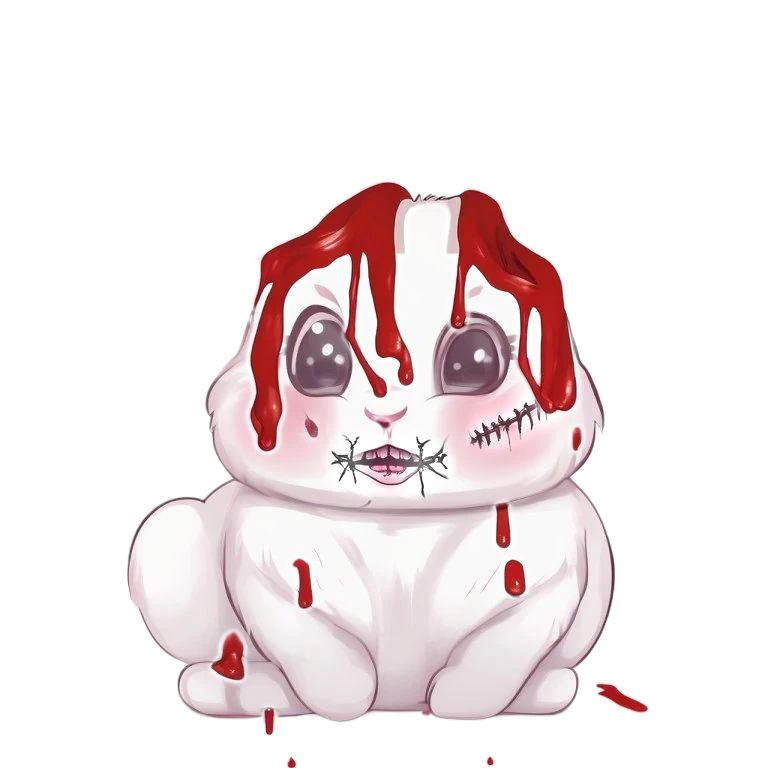
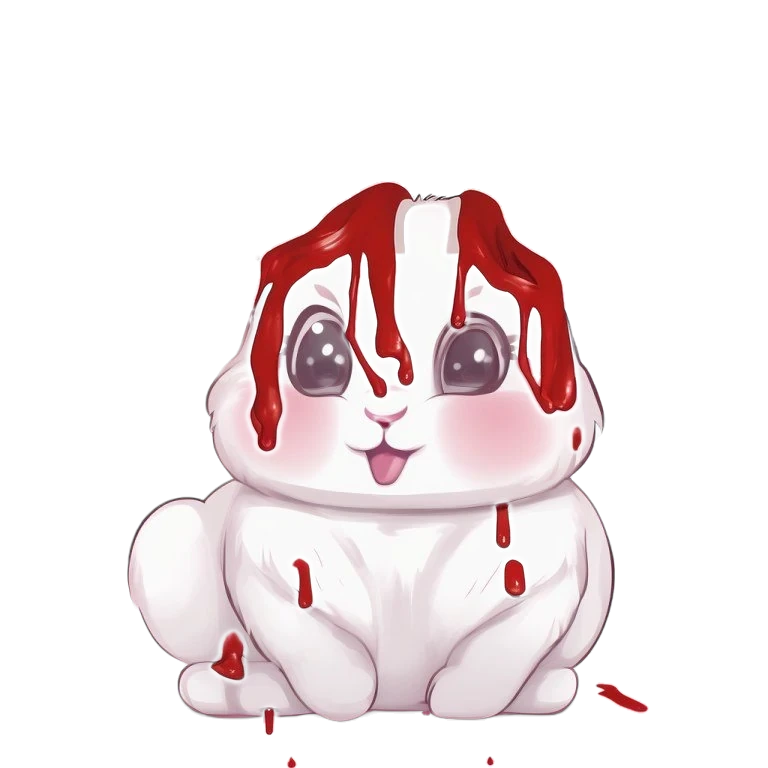
Injuries one at a time again; every injury scene ends on a flash of all of them
Zoya changed her mind on carrying wounds forward: each injury should
happen on its own like before. Instead, at the very end of every injury
scene, the fully injured Mochi flashes and zooms at the screen, with a
screech and her giggle in the background.

- tools/make_wound_images.py now builds single-wound images (cute + only
  that wound, still colour-matched and local, so her face never changes
  colour): wounds-ears, wounds-eyes, wounds-unzip; plus wounds-all with
  every injury at once. Stitches still use stitches-local.
- Engine scenes back to one wound each: stitches 0->1, ears 3->2,
  eyes 0->4, unzip 0->5; the flow morph stays confined to each wound.
- MochiSegment.allWoundsFlash, between the hold and the cut to black: a
  white/red frame, wounds-all (with her head piece) lunging from small to
  filling the screen in 0.85 s with shake and a red/cyan edge, the
  screech (new CC0 sample, screech-1, credited), and the giggle at
  creep >= 0.8 just under it. 'Reduce flashing': no white frame, no shake.
- Giggle.play({ creep, gain, wait }) for one-off giggles.
- wounds.js: woundsNow/woundsNext return single injuries; WOUNDS_ALL for
  the flash and the ending's polaroid.

Claude-Session: https://claude.ai/code/session_011Ypwzayr9m8FyJb9oTThiq

Changed region(s): [[0.4375, 0.5, 0.7188, 0.6562], [0.375, 0.5312, 0.4062, 0.5625]]

diff --git a/src/segments/MochiSegment.js b/src/segments/MochiSegment.js
@@ -12,6 +12,9 @@
 import { eventBefore, eventAfter, aiMochiLine } from "../mochi/MochiLines.js";
 import { FEAR_CHANNELS } from "../vision/FaceTracker.js";
 import { settings } from "../settings.js";
+import { WOUNDS_ALL } from "../mochi/wounds.js";
+import { giggle } from "../mochi/Giggle.js";
+import { headItem, accessoryHtml } from "../mochi/outfit.js";
 
 const WATCHING = (face) => !!face && face.faceVisible && !face.lookingAway && !face.blinkTooLong;
 
@@ -27,7 +30,7 @@ const CUT_BLACK_MS = 1300;
  *          mochiAudio: import('../mochi/MochiAudio').MochiAudio, getFace: () => object,
  *          ui: object, director: object, voice?: object}} ctx
  */
-export async function runMochiEvent({ scene, act, engine, mochiAudio, getFace, ui, director, voice, player, aiClient, aiEnabled }) {
+export async function runMochiEvent({ scene, act, engine, mochiAudio, getFace, ui, director, voice, player, aiClient, aiEnabled, samples }) {
   const ok = await engine.load();
   if (!ok) return { skipped: true };
   engine.calm = settings.reduceFlashing;
@@ -84,7 +87,10 @@ export async function runMochiEvent({ scene, act, engine, mochiAudio, getFace, u
     mochiAudio?.update(scene, t, dt, watching, awayMs / 1000);
   }
 
-  // ---- 4. sudden cut-away
+  // ---- 4. the flash: every injury at once, lunging at you. a screech, her giggle under it.
+  await allWoundsFlash({ samples, player });
+
+  // ---- 5. sudden cut-away
   mochiAudio?.cutAway();
   ui.setMochiWatchText("");
   ui.hideMochiEvent({ instant: true });
@@ -101,6 +107,30 @@ export async function runMochiEvent({ scene, act, engine, mochiAudio, getFace, u
   director?.say(upgraded || after);
   if (director) director.stats.mochiLookAways = (director.stats.mochiLookAways || 0) + lookAways;
   return { lookAways, completed: P >= 1 };
+}
+
+/**
+ * After each injury scene: for under a second, Mochi with ALL of her
+ * injuries (stitches, ears, eyes, belly) lunges at the screen. A screech,
+ * and her giggle underneath. Then the usual cut to black.
+ */
+const FLASH_MS = 850;
+export async function allWoundsFlash({ samples, player }) {
+  const calm = settings.reduceFlashing;
+  const head = headItem(player?.outfit?.head);
+  const el = document.createElement("div");
+  el.className = "mochi-flash" + (calm ? " calm" : "");
+  el.innerHTML = `<div class="mf-white"></div><div class="mf-mochi"><img src="${WOUNDS_ALL}" alt="" />${head ? accessoryHtml(head) : ""}</div>`;
+  document.body.appendChild(el);
+  // make sure the picture is ready, so the flash never shows an empty frame
+  const img = el.querySelector("img");
+  if (!img.complete) await Promise.race([new Promise((r) => (img.onload = r)), sleep(400)]);
+  samples?.play("screech", { gain: 0.9, jitter: 0.03 });
+  giggle.play({ creep: Math.max(giggle.creep, 0.8), gain: 0.9, wait: 0.12 });
+  void el.offsetWidth;
+  el.classList.add("go");
+  await sleep(FLASH_MS);
+  el.remove();
 }
 
 function nextFrame() {

diff --git a/src/mochi/MochiEngine.js b/src/mochi/MochiEngine.js
@@ -11,10 +11,11 @@
 // src/segments/MochiSegment.js.
 
 const BASE = "/mochi/";
-// Her wounds stay on her. Each image is cute Mochi plus every wound so far
-// (built by tools/make_wound_images.py from the original gore art):
-//   0 cute   1 + stitches   2 + ear stumps   3 no ears + stitches (the ears are a sprite)   4 + eyes   5 + belly
-const IMAGES = ["cute.webp", "wounds-stitches.webp", "wounds-ears.webp", "wounds-noears.webp", "wounds-eyes.webp", "wounds-unzip.webp"];
+// One injury at a time. Each end image is cute Mochi with only that wound
+// (built by tools/make_stitches_local.py and tools/make_wound_images.py from
+// the original gore art), so only the wound changes:
+//   0 cute   1 stitches   2 ear stumps   3 cute with the ears painted out (they're a sprite)   4 eyes   5 belly
+const IMAGES = ["cute.webp", "stitches-local.webp", "wounds-ears.webp", "cute-noears.webp", "wounds-eyes.webp", "wounds-unzip.webp"];
 const FLOWS = ["stitches", "ears", "eyes", "unzip"].flatMap((n) => [`flow-${n}-ab.png`, `flow-${n}-ba.png`]);
 // R/G as before; for ears/eyes/unzip B = where that scene may change at all
 const MASKS = ["mask-stitches-local.png", "mask-ears-local.png", "mask-eyes-local.png", "mask-unzip-local.png"];
@@ -27,8 +28,8 @@ export const MOCHI_CUTE_URL = BASE + IMAGES[0];
 export const MOCHI_SCENES = {
   stitches: { a: 0, b: 1, fl: 0, dm: 0, kind: 1 },
   ears: { a: 3, b: 2, fl: 1, dm: 1, kind: 2 },
-  eyes: { a: 2, b: 4, fl: 2, dm: 2, kind: 3 },   // starts stitched, without ears
-  unzip: { a: 4, b: 5, fl: 3, dm: 3, kind: 4 }   // starts with everything so far
+  eyes: { a: 0, b: 4, fl: 2, dm: 2, kind: 3 },
+  unzip: { a: 0, b: 5, fl: 3, dm: 3, kind: 4 }
 };
 
 /** On-screen size of Mochi (CSS px) when the camera isn't zoomed. */
@@ -239,7 +240,7 @@ export class MochiEngine {
         const x = (W - S) / 2, y = (H - S) / 2;
         g.clearRect(0, 0, W, H);
         const im = this.images;
-        g.globalAlpha = 1 - t; g.drawImage(im[s.a === 3 ? 1 : s.a], x, y, S, S); // no ear sprite here: start from the stitched one
+        g.globalAlpha = 1 - t; g.drawImage(im[s.a === 3 ? 0 : s.a], x, y, S, S); // no ear sprite here: start from cute
         g.globalAlpha = t; g.drawImage(im[s.b], x, y, S, S);
         g.globalAlpha = 1;
       };

diff --git a/src/style.css b/src/style.css
@@ -1467,3 +1467,26 @@ body[data-act="3"] .mochi-acc { filter: saturate(0.55) drop-shadow(0 2px 2px rgb
 .fd-cam circle { fill: none; stroke: #b5617f; stroke-width: 3.2; stroke-linecap: round; stroke-dasharray: 295.3; stroke-dashoffset: calc(295.3 * (1 - var(--p, 0))); transition: stroke-dashoffset 0.1s; }
 .mochi-play.simon .mp-mochi-wrap { transition: none; }
 .mochi-play.simon .mp-mochi-wrap.fd-closer { scale: 1.55; translate: 12vw 6vh; z-index: 3; }
+
+/* ======================================================================
+   The flash at the end of each injury scene (MochiSegment.allWoundsFlash):
+   Mochi with every injury at once, lunging at the screen.
+   ====================================================================== */
+.mochi-flash {
+  position: fixed; inset: 0; z-index: 9999; pointer-events: none; overflow: hidden;
+  display: flex; align-items: center; justify-content: center;
+  background: radial-gradient(circle at 50% 50%, #3a0006 0%, #0a0001 70%);
+}
+.mf-white { position: absolute; inset: 0; background: #fff; opacity: 1; }
+.mochi-flash.go .mf-white { animation: mf-white 0.12s steps(1) forwards; }
+@keyframes mf-white { 0% { opacity: 1; } 50% { opacity: 0.6; background: #ff2a35; } 100% { opacity: 0; } }
+.mf-mochi { position: relative; height: 92vh; aspect-ratio: 1; --mochi-h: 92vh; transform: scale(0.45); }
+.mf-mochi img { height: 100%; width: 100%; display: block; filter: drop-shadow(-0.6vh 0 0 rgba(255, 0, 40, 0.75)) drop-shadow(0.6vh 0 0 rgba(0, 220, 255, 0.45)) contrast(1.15) saturate(1.2); }
+.mochi-flash.go .mf-mochi { animation: mf-lunge 0.85s cubic-bezier(.55,0,.9,.6) forwards, mf-shake 0.06s linear infinite; }
+@keyframes mf-lunge { 0% { transform: scale(0.45); } 70% { transform: scale(1.55); } 100% { transform: scale(3.2); } }
+@keyframes mf-shake { 0% { translate: 0 0; } 25% { translate: 0.8vh -0.6vh; } 50% { translate: -0.7vh 0.5vh; } 75% { translate: 0.5vh 0.7vh; } 100% { translate: 0 0; } }
+/* reduce flashing: no white frame, no shake; she still comes at you */
+.mochi-flash.calm .mf-white { display: none; }
+.mochi-flash.calm.go .mf-mochi { animation: mf-lunge 0.85s cubic-bezier(.55,0,.9,.6) forwards; }
+.mochi-flash.calm { animation: mf-fade 0.15s ease-out; }
+@keyframes mf-fade { from { opacity: 0; } }

diff --git a/src/mochi/wounds.js b/src/mochi/wounds.js
@@ -1,27 +1,33 @@
-// What Mochi looks like by now. Her wounds stay on her (see
-// tools/make_wound_images.py): each image is cute Mochi plus every wound so
-// far. Scenes: stitches end act IV, ears end act V, eyes end act VI, unzip
-// is the last (act IX).
+// Mochi's injuries happen one at a time (each scene starts from cute Mochi).
+// Scenes: stitches ends act IV, ears ends act V, eyes ends act VI, unzip is
+// the last (act IX). These pick the right single-wound image for a moment in
+// the story; WOUNDS_ALL has every injury at once (the flash at the end of
+// each scene, and the ending's polaroid).
 
-const W = (n) => `/mochi/wounds-${n}.webp`;
-const STATES = [
-  { after: 4, url: W("stitches") }, // from act V on
-  { after: 5, url: W("ears") },     // from act VI on
-  { after: 6, url: W("eyes") },     // from act VII on
-  { after: 9, url: W("unzip") }     // only at the very end
+const IMG = {
+  stitches: "/mochi/stitches-local.webp",
+  ears: "/mochi/wounds-ears.webp",
+  eyes: "/mochi/wounds-eyes.webp",
+  unzip: "/mochi/wounds-unzip.webp"
+};
+const ORDER = [
+  { after: 4, url: IMG.stitches },
+  { after: 5, url: IMG.ears },
+  { after: 6, url: IMG.eyes },
+  { after: 9, url: IMG.unzip }
 ];
 
-/** Her injuries as of `act` (null before the first one). */
+/** Her most recent injury as of `act` (null before the first). */
 export function woundsNow(act) {
   let url = null;
-  for (const s of STATES) if (act > s.after) url = s.url;
+  for (const s of ORDER) if (act > s.after) url = s.url;
   return url;
 }
 
-/** Her injuries as of `act`, plus the next one: for single-frame flashes (a glimpse of what's coming). */
+/** The injury that's coming next: for single-frame flashes (a glimpse of it). */
 export function woundsNext(act) {
-  for (const s of STATES) if (act <= s.after) return s.url;
-  return STATES[STATES.length - 1].url;
+  for (const s of ORDER) if (act <= s.after) return s.url;
+  return ORDER[ORDER.length - 1].url;
 }
 
-export const WOUNDS_FINAL = W("unzip");
+export const WOUNDS_ALL = "/mochi/wounds-all.webp";

diff --git a/src/mochi/Giggle.js b/src/mochi/Giggle.js
@@ -60,15 +60,16 @@ class GigglePlayer {
     return true;
   }
 
-  play() {
-    const ctx = this.ctx, c = this.creep;
+  /** Giggle now. `creep` overrides the story's level for this one; `gain` scales it. */
+  play({ creep, gain = 1, wait = 0 } = {}) {
+    const ctx = this.ctx, c = creep ?? this.creep;
     if (!ctx || !this.buffers.length) return;
     this._last = performance.now();
     let i = Math.floor(Math.random() * this.buffers.length);
     if (i === this._lastIndex) i = (i + 1) % this.buffers.length;
     this._lastIndex = i;
     const buf = this.buffers[i];
-    const t0 = ctx.currentTime + 0.02;
+    const t0 = ctx.currentTime + 0.02 + wait;
 
     // slower and lower, gradually
     const rate = (1.03 - 0.24 * c) * (1 + (Math.random() - 0.5) * 0.03);
@@ -113,7 +114,9 @@ class GigglePlayer {
     lp.connect(delay);
     delay.connect(fb).connect(delay);
     delay.connect(wet).connect(pan);
-    pan.connect(this.dest);
+    const out = ctx.createGain();
+    out.gain.value = gain;
+    pan.connect(out).connect(this.dest);
 
     // underneath, later on: the same giggle, backwards
     let back = null;
@@ -135,7 +138,7 @@ class GigglePlayer {
     lfo.stop(t0 + dur + tail);
     back?.stop(t0 + 0.12 + dur / 0.86);
     // let the echo ring out, then let go of the nodes
-    setTimeout(() => { try { pan.disconnect(); delay.disconnect(); } catch { /* already gone */ } }, (dur + tail + 0.5) * 1000);
+    setTimeout(() => { try { out.disconnect(); delay.disconnect(); } catch { /* already gone */ } }, (dur + tail + wait + 0.5) * 1000);
   }
 }
 

diff --git a/src/stages.js b/src/stages.js
@@ -150,7 +150,7 @@ export const STAGES = [
     steps: [
       { type: "pause", ms: 4200 },
       { type: "round", title: "round si\u0335x ♡", sub: "where were we?", glitch: true },
-      { type: "talk", lines: "whereWereWe", mood: "off", flicker: "/mochi/wounds-stitches.webp" },
+      { type: "talk", lines: "whereWereWe", mood: "off", flicker: "/mochi/stitches-local.webp" },
       "b3", "b4",
       { type: "play", kind: "memory" },
       { type: "round", title: "a proper test ♡", sub: "mochi wants to know the real you" },
@@ -158,7 +158,7 @@ export const STAGES = [
       { type: "play", kind: "results" },
       "b6",
       { type: "play", kind: "simon" },
-      { type: "talk", lines: "cantHear", mood: "off", flicker: "/mochi/wounds-stitches.webp" },
+      { type: "talk", lines: "cantHear", mood: "off", flicker: "/mochi/stitches-local.webp" },
       { type: "mochi", scene: "ears" }
     ]
   },

diff --git a/src/ui/screens.js b/src/ui/screens.js
@@ -89,7 +89,7 @@ const HOST_CUTE = "/mochi/cute.webp";
 let hostHurt = false;
 
 /** One or two frames of a hurt Mochi in the host avatar. Too quick to be sure. */
-export function flickerHost(url = "/mochi/wounds-stitches.webp", ms = 45) {
+export function flickerHost(url = "/mochi/stitches-local.webp", ms = 45) {
   const img = $("#mochi-host img");
   if (!img || hostHurt) return;
   img.src = url;
@@ -97,7 +97,7 @@ export function flickerHost(url = "/mochi/wounds-stitches.webp", ms = 45) {
 }
 
 /** Act III: while the player's eyes are closed, Mochi has her stitches. */
-export function setHostHurt(on, url = "/mochi/wounds-stitches.webp") {
+export function setHostHurt(on, url = "/mochi/stitches-local.webp") {
   if (on === hostHurt) return;
   hostHurt = on;
   const img = $("#mochi-host img");

diff --git a/src/segments/Ending.js b/src/segments/Ending.js
@@ -86,7 +86,7 @@ export async function cursedPolaroid(player, faceGore, samples) {
     g.drawImage(gore, 0, 0, 640, 480);
     g.restore();
   }
-  root.querySelector(".mp-sticker").src = "/mochi/wounds-unzip.webp"; // everything she went through
+  root.querySelector(".mp-sticker").src = "/mochi/wounds-all.webp"; // everything she went through
   root.querySelector(".mp-caption").textContent = "best friends forever";
   root.querySelector(".mp-polaroid").classList.add("ruined");
   samples?.play("splat", { gain: 0.8 });

diff --git a/src/segments/MochiPlay.js b/src/segments/MochiPlay.js
@@ -181,7 +181,7 @@ export async function runRoundCard(ctx, title, sub, { glitch = false, ms = 2400 
   show(v);
   if (glitch) {
     ctx.sfx?.tick();
-    v.mochi.src = "/mochi/wounds-stitches.webp"; // for one frame
+    v.mochi.src = "/mochi/stitches-local.webp"; // for one frame
     setTimeout(() => { if (v.mochi.isConnected) v.mochi.src = MOCHI_CUTE_URL; }, 60);
   } else {
     bounce(v, "wiggle");

diff --git a/src/segments/MochiFaded.js b/src/segments/MochiFaded.js
@@ -17,7 +17,7 @@ import { LINES, fillName } from "../mochi/MochiLines.js";
 import { build, show, hide, say, bounce, heart, sleep, pick, DESSERTS } from "./MochiPlay.js";
 import { headItem } from "../mochi/outfit.js";
 
-const STITCHED_URL = "/mochi/wounds-stitches.webp";
+const STITCHED_URL = "/mochi/stitches-local.webp";
 
 function setup(ctx, mode) {
   const v = build(ctx);

diff --git a/src/core/SampleBank.js b/src/core/SampleBank.js
@@ -6,7 +6,7 @@
 // Files: public/audio/sfx/ (CC0 recordings from freesound.org, see CREDITS.txt there).
 
 export const SFX_GROUPS = {
-  stitch: 6, thread: 2, tear: 7, squelch: 10, splat: 1, snap: 3, crack: 3, drip: 7, gush: 1
+  stitch: 6, thread: 2, tear: 7, squelch: 10, splat: 1, snap: 3, crack: 3, drip: 7, gush: 1, screech: 1
 };
 
 export class SampleBank {

diff --git a/tools/make_wound_images.py b/tools/make_wound_images.py
@@ -1,17 +1,18 @@
-"""Build Mochi's cumulative wound images, so each injury stays on her in later scenes.
+"""Build Mochi's wound images.
 
-Every wound image is "cute Mochi + only that wound", transplanted from the
-original gore art (colour-matched, feathered), then stacked in story order:
-
-  stitches (IV) -> ears (V) -> eyes (VI) -> unzip (IX)
+Each injury happens on its own: every wound image is "cute Mochi + only that
+wound", transplanted from the original gore art (colour-matched outside the
+wound, feathered), so a scene changes only the wound and nothing else about her.
+There's also one image with every wound at once, for the flash at the end of
+each injury scene (and the ending's polaroid).
 
 Outputs (public/mochi/):
-  wounds-stitches.webp     cute + stitches                (end of the stitches scene)
-  wounds-noears.webp       cute-noears + stitches         (start of the ears scene; the ears are a sprite)
-  wounds-ears.webp         + ear stumps and their blood   (end of ears / start of eyes)
-  wounds-eyes.webp         + eyes                         (end of eyes / start of unzip)
-  wounds-unzip.webp        + the belly                    (end of unzip)
-  mask-*-local.png         the scene masks again, with B = where that scene may change (feathered)
+  wounds-ears.webp     cute-noears + ear stumps and their blood   (end of the ears scene)
+  wounds-eyes.webp     cute + eyes                                (end of the eyes scene)
+  wounds-unzip.webp    cute + the belly                           (end of the unzip scene)
+  wounds-all.webp      stitches + ears + eyes + belly, all at once
+  mask-*-local.png     the scene masks again, with B = where that scene may change (feathered)
+(the stitches scene uses stitches-local.webp, from tools/make_stitches_local.py)
 
 Run from the repo root: python3 tools/make_wound_images.py
 Needs numpy, opencv-python, pillow. Re-run it if any of the source art changes.
@@ -102,12 +103,16 @@ R_unzip = feather(np.maximum(wound_u, bl_u), 4, 3) * no_ears
 R_prev = np.maximum(R_prev, R_eyes)
 unzip_end = transplant(eyes_end, unzip_src, R_unzip, core_u, prev=eyes_end, prev_R=R_prev)
 
+# one wound at a time, on otherwise cute Mochi
+ears_only = transplant(noears, ears_src, R_ears, core_e)
+eyes_only = transplant(cute, eyes_src, R_eyes, core_y)
+unzip_only = transplant(cute, unzip_src, R_unzip, core_u)
+
 save = lambda a, n: Image.fromarray(np.clip(a, 0, 255).astype(np.uint8), "RGBA").save(D + n, quality=92, method=6)
-save(st_local, "wounds-stitches.webp")
-save(noears_st, "wounds-noears.webp")
-save(ears_end, "wounds-ears.webp")
-save(eyes_end, "wounds-eyes.webp")
-save(unzip_end, "wounds-unzip.webp")
+save(ears_only, "wounds-ears.webp")
+save(eyes_only, "wounds-eyes.webp")
+save(unzip_only, "wounds-unzip.webp")
+save(unzip_end, "wounds-all.webp")   # the stack built above: everything at once
 
 # masks: keep R/G from the originals, B = where this scene is allowed to change
 for src_png, R, out in [("mask-ears.png", R_ears, "mask-ears-local.png"),
